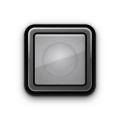
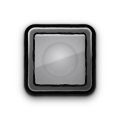
Botones: bordes con pequenas imperfecciones (ondulacion, rugosidad y motitas) [skip ci]
Claude-Session: https://claude.ai/code/session_01LmYTuHAKQSU8qhR6nNkVAi

diff --git a/UI_definitiva/generadores/button_gen.py b/UI_definitiva/generadores/button_gen.py
@@ -21,6 +21,14 @@ def draw(on):
         sd_b=sdf(X,Y,HB*S,HB*S,7*S)                           # bisel metalico
         sd_l=sdf(X,Y,(FH+GP)*S,(FH+GP)*S,4.2*S)               # borde del canal
         sd_f=sdf(X,Y,FH*S,FH*S,2.6*S)                         # lente
+        # --- imperfecciones: los bordes no son perfectos (ondulaciones suaves y rugosidad fina; iguales en apagado y prendido)
+        def nz(sig,seed):
+            f=gaussian_filter(np.random.default_rng(seed).normal(0,1,(h,w)),sig*S); return f/f.std()
+        IMP=0.32
+        sd_r=sd_r+IMP*(0.22*nz(3.0,101)+0.12*nz(0.9,102))*S
+        sd_b=sd_b+IMP*(0.28*nz(3.0,103)+0.16*nz(0.9,104))*S
+        sd_l=sd_l+IMP*(0.55*nz(2.6,105)+0.35*nz(0.8,106))*S
+        sd_f=sd_f+IMP*(0.45*nz(2.4,107)+0.30*nz(0.8,108))*S
         mr=cov(sd_r); mb=cov(sd_b)[...,None]; ml=cov(sd_l)[...,None]; mf=cov(sd_f)[...,None]
         # sombra proyectada al fondo (el boton esta hundido: sombra suave y corta)
         shd=1-(1-gaussian_filter(ndshift(mr,(0.6*S,0),order=1),1.0*S)*0.8)*(1-gaussian_filter(ndshift(mr,(2.6*S,0),order=1),3.6*S)*0.7)
@@ -43,6 +51,7 @@ def draw(on):
         Lb=84+16*t-14*np.clip(xn,0,1)+7*np.clip(-xn,0,1)+g1*0.8
         Lb=Lb+105*np.exp(-((dib-0.9)/0.9)**2)*np.clip(t,0,1)**0.6+45*np.exp(-((dib-0.7)/0.7)**2)*np.clip(-t,0,1)**0.8
         Lb=Lb+22*np.exp(-((dib-0.7)/0.7)**2)*np.clip(-xn,0,1)
+        Lb=Lb+IMP*(5*nz(0.7,112)+6*nz(2.0,113))*np.exp(-dib/1.8)       # rayitas y marcas en el borde del bisel
         if on: Lb=Lb*0.82-6
         else: Lb=Lb+10*np.exp(-((dib-0.9)/0.9)**2)*np.clip(t,0,1)
         if on: bez=np.stack([Lb*0.50+12,Lb*0.72+34,Lb*1.0+78],-1)
@@ -53,6 +62,9 @@ def draw(on):
         # --- canal oscuro entre bisel y lente (mas sombra arriba y a la derecha)
         dl=np.clip(-sd_l/S,0,None)
         gv=10+g1*0.4-5*np.clip(t,0,1)*np.exp(-dl/1.2)+8*np.exp(-((dl-0.4)/0.5)**2)*np.clip(-t,0,1)
+        pt=nz(1.1,109)                                                      # zonas del canal mas oscuras / mas claras (irregular)
+        gv=gv*(1-0.5*sm(pt,0.3,1.4))+7*sm(-pt,0.8,1.8)
+        gv=gv+(np.random.default_rng(110).random((h,w))>0.975)*np.random.default_rng(111).normal(0,16,(h,w))*np.exp(-dl/2.2)   # motitas
         gcol=np.stack([gv]*3,-1)
         if on: gcol=gcol+np.array([2,10,34.])[None,None,:]
         col=col*(1-ml)+gcol*ml
